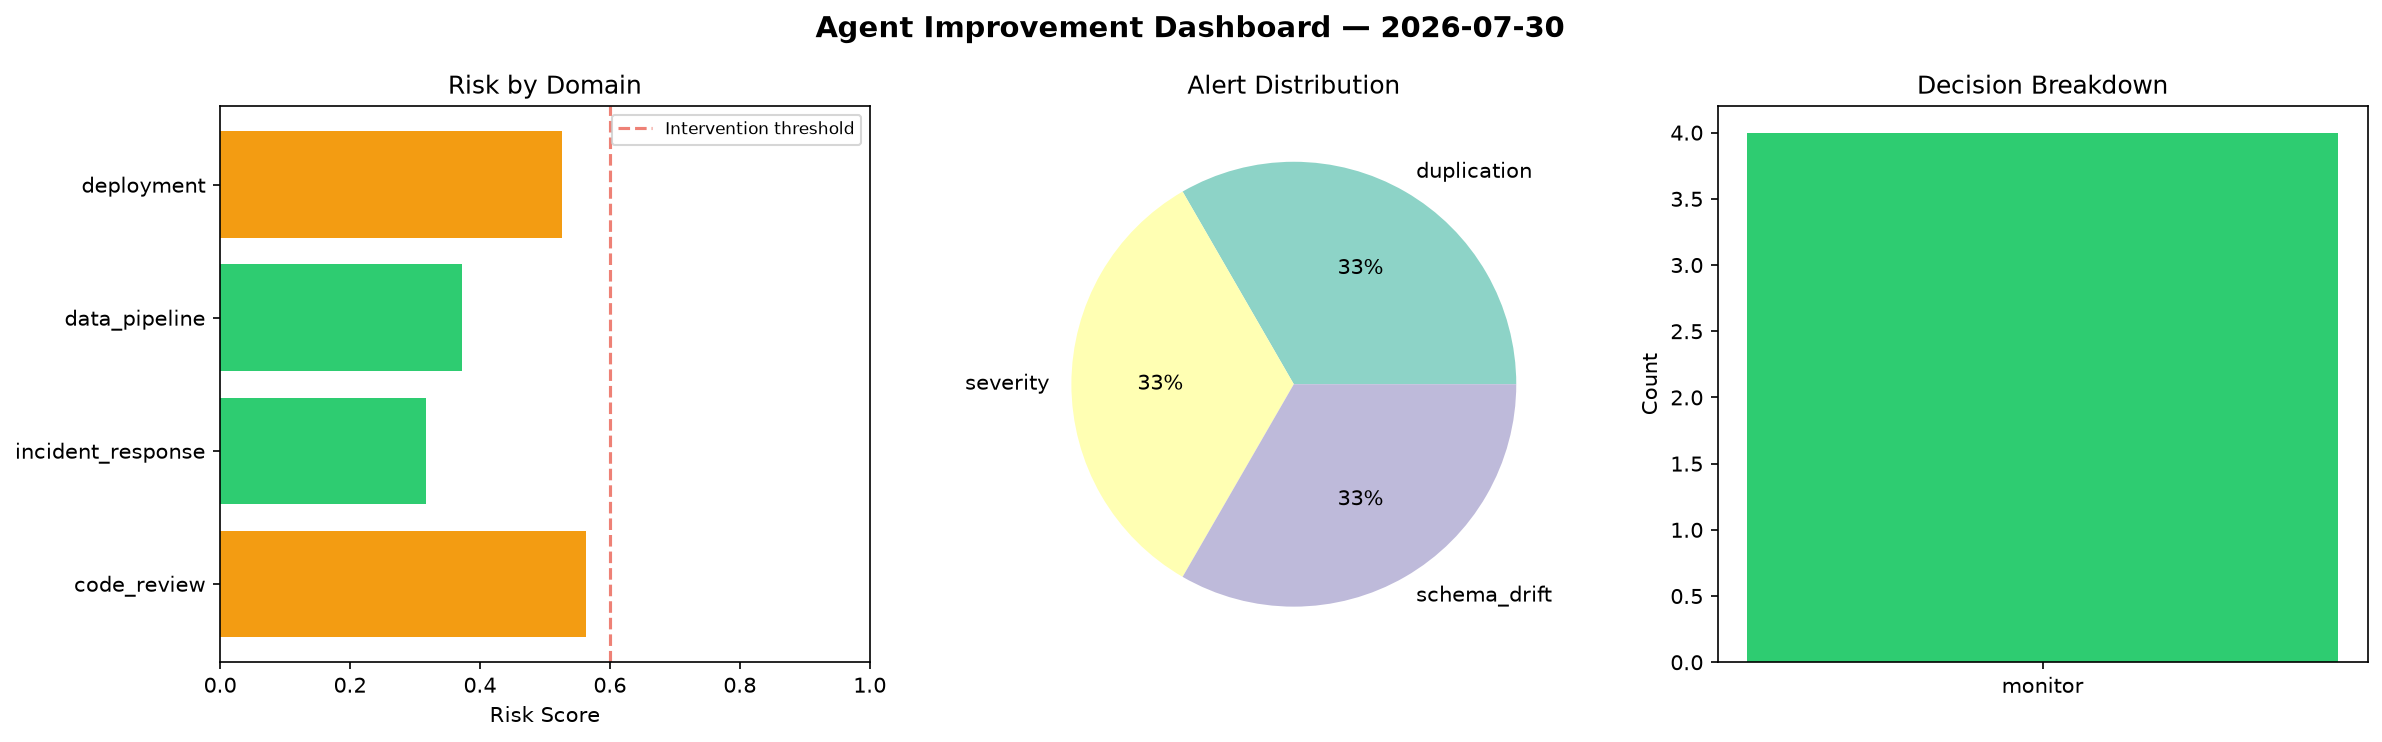
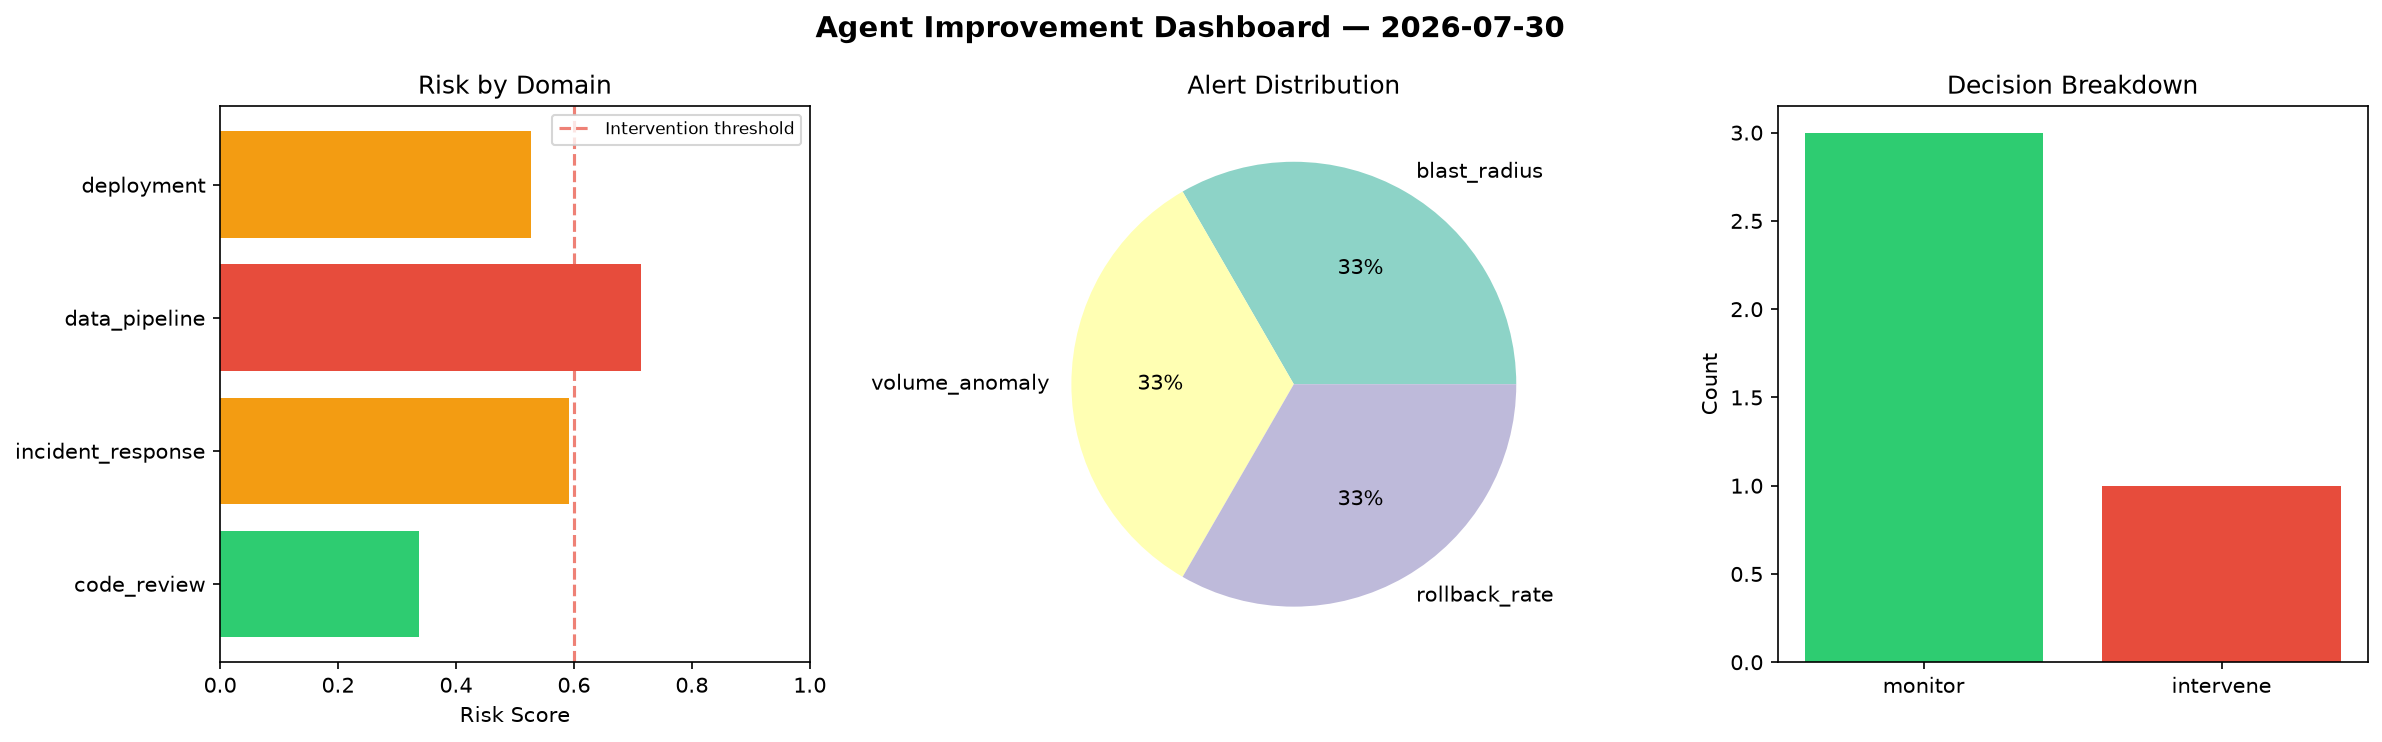
agent-improvement: daily cycle 2026-07-30T16:00

diff --git a/logs/2026-07-30.md b/logs/2026-07-30.md
@@ -1,6 +1,6 @@
 # Agent Improvement Report — 2026-07-30
 
-**Cycle ID:** `7b532d01` | **Avg Risk:** 0.4448 | **Interventions:** 0/4
+**Cycle ID:** `76242031` | **Avg Risk:** 0.5424 | **Interventions:** 1/4
 
 ![Dashboard](2026-07-30_dashboard.png)
 
@@ -10,18 +10,18 @@
 
 | Domain | Risk Score | Decision | Alerts |
 |--------|-----------|----------|--------|
-| code_review | 0.5637 | monitor | duplication |
-| incident_response | 0.3175 | monitor | severity |
-| data_pipeline | 0.372 | monitor | schema_drift |
-| deployment | 0.5261 | monitor | none |
+| code_review | 0.3378 | monitor | none |
+| incident_response | 0.5914 | monitor | blast_radius |
+| data_pipeline | 0.7139 | intervene | volume_anomaly |
+| deployment | 0.5265 | monitor | rollback_rate |
 
 ## Delta vs Yesterday
 
 | Domain | Today | Yesterday | Change |
 |--------|-------|-----------|--------|
-| code_review | 0.5637 | 0.7614 | 📉 -26.0% |
-| incident_response | 0.3175 | 0.6777 | 📉 -53.2% |
-| data_pipeline | 0.372 | 0.5239 | 📉 -29.0% |
-| deployment | 0.5261 | 0.2416 | 📈 117.8% |
+| code_review | 0.3378 | 0.7614 | 📉 -55.6% |
+| incident_response | 0.5914 | 0.6777 | 📉 -12.7% |
+| data_pipeline | 0.7139 | 0.5239 | 📈 36.3% |
+| deployment | 0.5265 | 0.2416 | 📈 117.9% |
 
-**Refinement:** `{'adjustment': 'maintain', 'trend': 'improving', 'window': 4}`
+**Refinement:** `{'adjustment': 'tighten_thresholds', 'trend': 'degrading', 'window': 4}`
